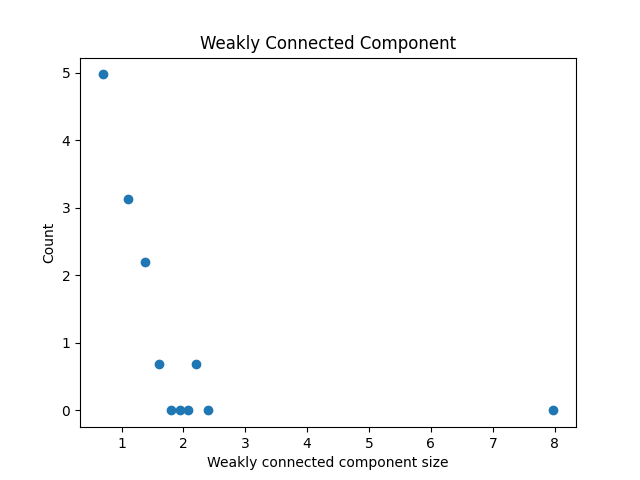
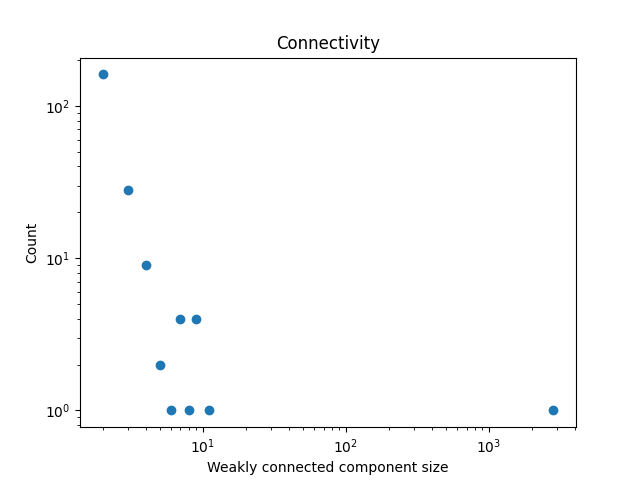
fix filter bug and edit loglog graphs

diff --git a/network_analysis.py b/network_analysis.py
@@ -5,8 +5,11 @@ import math
 
 def get_network_analysis(graph):
 
+  num_nodes = graph.number_of_nodes()
+  num_edges = graph.number_of_edges()
+
   # TODO: write into file
-  # print('#nodes: {}\n#edges: {}\nEdges: {}\n'.format(graph.number_of_nodes(), graph.number_of_edges(), graph.edges.data('weight')))
+  # print('# of nodes: {}\n# of edges: {}\nEdges: {}\n'.format(num_nodes, num_edges, graph.edges.data('weight')))
 
   get_node_degree_distribution(graph) # Node degree distribution
   get_weakly_connected_component(graph) # Weakly connected component
@@ -18,6 +21,7 @@ def get_network_analysis(graph):
 
 def create_graph_analysis(x, y, title, xlabel, ylabel, file_name):
   plt.scatter(x, y)
+  plt.loglog(base=10)
   plt.title(title)
   plt.xlabel(xlabel)
   plt.ylabel(ylabel)
@@ -25,15 +29,14 @@ def create_graph_analysis(x, y, title, xlabel, ylabel, file_name):
   plt.clf() 
 
 def get_x(values):
-  # calculate log for x-axis
   set_list = list(set(values)) # remove duplicates
-  x = [math.log(v) if v != 0 else 0 for v in set_list] 
+  x = [v for v in set_list] 
   return x
 
 def get_y(values):
   # count frequency and calculate log for y-axis
   set_list = list(set(values)) # remove duplicates
-  y = [math.log(values.count(v)) for v in set_list]
+  y = [values.count(v) for v in set_list]
   return y
 
 def get_node_degree_distribution(graph):
@@ -55,10 +58,11 @@ def get_weakly_connected_component(graph):
   subgraphs = [graph.subgraph(wcc) for wcc in nx.weakly_connected_components(graph)]
   # count size of subgraphs
   sizes = [g.number_of_nodes() for g in subgraphs]
-  create_graph_analysis(get_x(sizes), get_y(sizes), "Weakly Connected Component", "Weakly connected component size", "Count", "graphs/wcc.png")
+  create_graph_analysis(get_x(sizes), get_y(sizes), "Connectivity", "Weakly connected component size", "Count", "graphs/wcc.png")
 
 def get_clustering_coefficient(graph):
   # get clustering coefficient for each node in graph
   # the edge attribute that holds the numerical value used as a weight
+  d = [k for n, k in graph.degree(weight='weight')]
   cc = [v for n, v in nx.clustering(graph, weight='weight').items()]
-  create_graph_analysis(get_x(cc), get_y(cc), "Local Clustering Coefficient", "Clustering coefficient, c", "Count", "graphs/cc.png")
+  create_graph_analysis(d, cc, "Clustering", "Degree, k", "Clustering coefficient, c", "graphs/cc.png")

diff --git a/create_network.py b/create_network.py
@@ -47,13 +47,13 @@ def create_graph():
 
 def filter_coc_df(coc_df):
   # delete all rows that have "[deleted]" and "AutoModerator" author
-  coc_df = coc_df[coc_df.author != "[deleted]"]
-  coc_df = coc_df[coc_df.author != "AutoModerator"]
+  coc_df = coc_df[~coc_df.author.isin(['[deleted]', 'AutoModerator'])]
   coc_df = coc_df.reset_index(drop=True)
+  return coc_df
 
 def get_df():
-  path = os.path.join("comment_data", "coronavirus_all_comments.csv")
-  coc_df = pd.read_csv(path)
+  coc_path = os.path.join("comment_data", "coronavirus_all_comments.csv")
+  coc_df = pd.read_csv(coc_path)
   coc_df = coc_df[['author', 'id', 'link_id', 'parent_id', 'subreddit_id']]
 
   post_path = os.path.join("submission_data", "coronavirus_submissions.csv")
@@ -67,7 +67,7 @@ if __name__ == "__main__":
   coc_df, post_df = get_df()
   authors_list = coc_df['author'].tolist()
 
-  filter_coc_df(coc_df)
+  coc_df = filter_coc_df(coc_df)
   graph = nx.DiGraph()
   
   # l = 1
@@ -86,7 +86,8 @@ if __name__ == "__main__":
       # l += 1
   print("Edges created!")
   
-  # draw and show graph after adding edges
+  # draw and show graph after adding edges 
+  # (can skip this step after running it once to save time)
   print("Creating graph...")
   create_graph()
   print("Graph created!")
